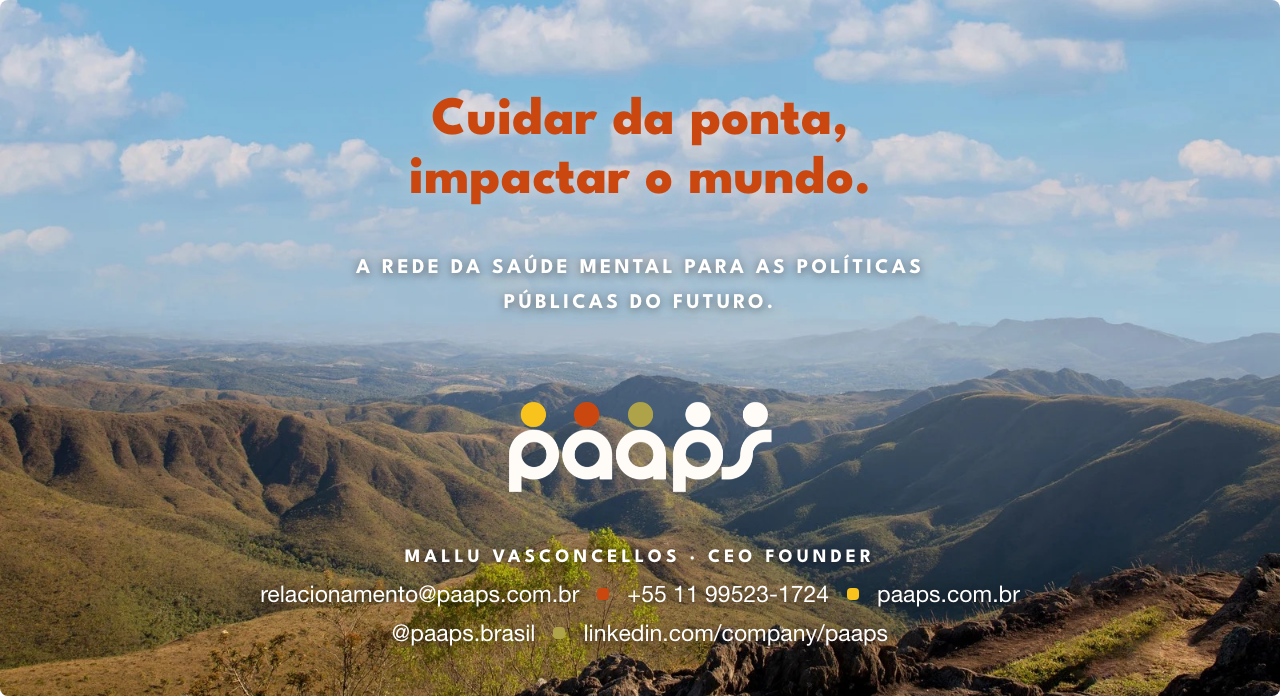
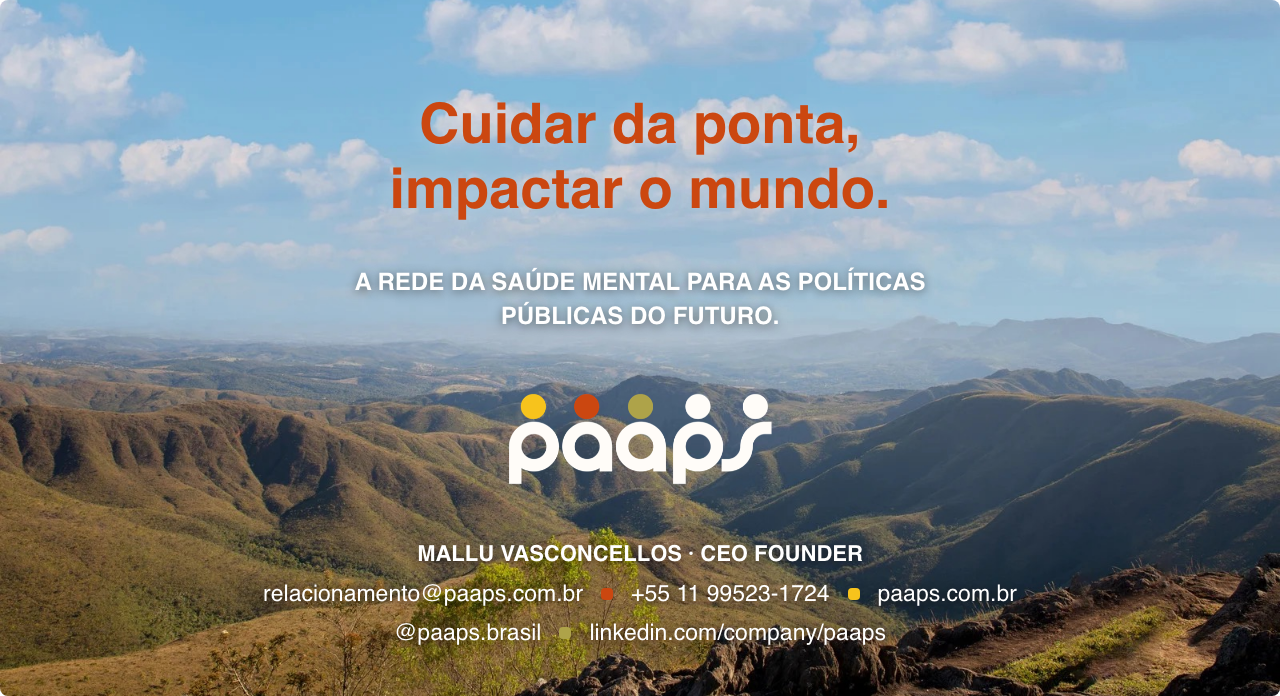
auto: automacoes, insumos-compartilhados, sessoes - 2026-07-27 10:37

diff --git a/sessoes/sessao-2026-07-27.md b/sessoes/sessao-2026-07-27.md
@@ -52,3 +52,14 @@ Pendente com a Mallu: trilha (não havia faixa na pasta do bruto) e legenda do p
  M insumos-compartilhados/nucleo-comum/identidade-aplicada.md
 ```
 
+
+## 10:37
+```
+ M automacoes/prospeccao-email/n8n/criar-credencial-notion.mjs
+ M insumos-compartilhados/assinatura-email/assinatura-email-640.jpg
+ M insumos-compartilhados/assinatura-email/assinatura-paaps-a-montanha.jpg
+ M insumos-compartilhados/assinatura-email/assinatura-paaps-a-montanha.png
+ M insumos-compartilhados/assinatura-email/assinatura-paaps-b-editorial.jpg
+ M insumos-compartilhados/assinatura-email/assinatura-paaps-b-editorial.png
+```
+
